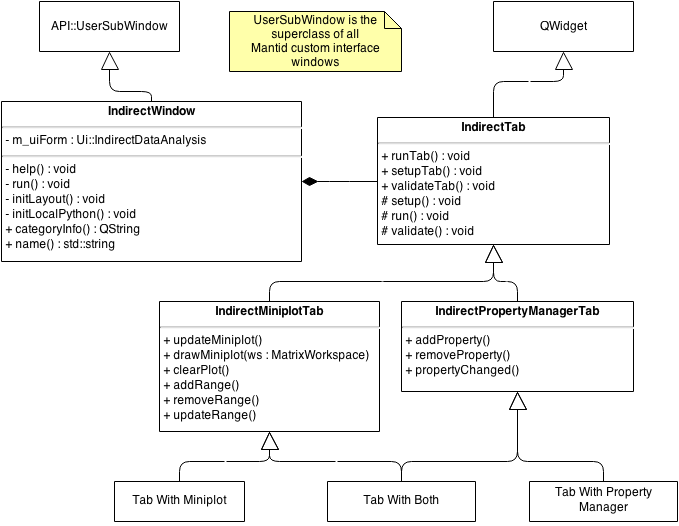
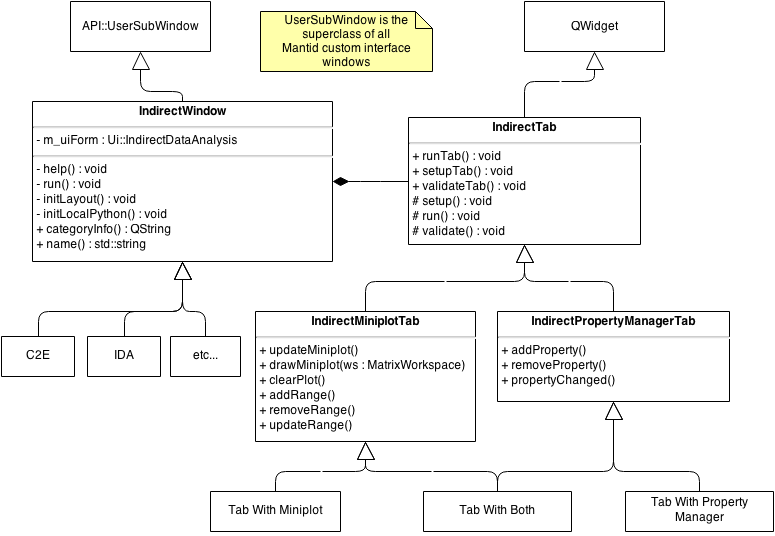
Checkpointing work.

diff --git a/RAL_technical_report/report.tex b/RAL_technical_report/report.tex
@@ -96,7 +96,6 @@ Indirect geometry time-of-flight instruments, like the IRIS, OSIRIS, TOSCA, and 
 \label{fig:instrument-energy-range}
 \end{figure}
 
-
 IRIS and OSIRIS share the N6 beamline in target station 1 at the ISIS facility. Both instruments are fed via curved guides from the source moderator. Two choppers positioned at 10m and 6.3m from the instruments define the incident wavelength band and prevent frame overlap \cite{smukhopadhyay2014}. TOSCA is located on the N4 beamline in ISIS target station 1 with a incident flight path of 17m and also has a chopper on the incoming beamline to prevent overlap and remove fast neutrons \cite{colognesi2002tosca}. VESUVIO is located on the S2 beamline and has an incident flight path of 11.005m \cite{mayers2011calibration}.
 
 The final energy for inelastic instruments such as IRIS, OSIRIS and TOSCA is determined by the reflections from analyser crystals by means of Bragg scattering. IRIS and OSIRIS both have pyrolytic graphite crystal analysers with reflection planes 002 and 004 delivering a final energy of $E_f$=1.845 and 7.38 meV respectively \cite{adams2001iris}\cite{telling2008osiris}. This design leads to a resolution of 17.5 and 54.5 $\mu$eV for the 002 and 004 reflections on IRIS and 25 and 99 $\mu$eV on OSIRIS. IRIS additionally has a mica (muscovite or fluorinated) crystal analyser bank with reflections 002, 004, and 006, and $E_f$ corresponding to 0.207, 0.826, and 1.86 meV respectively which provide better resolutions of 11$\mu$eV (006), 4.5$\mu$eV (004) and
@@ -347,10 +346,34 @@ The calibration section of the convert to energy interface can be used to create
 As mentioned, the calibration interfaces can also create resolution files for later use in data analysis. This routine, like many within the indirect section of many, is separate from the reducer-reduction step  framework and just a python function which is executed with parameters supplied from the interface. To create the resolution file, the routine first takes the vanadium run supplied on the calibration interface and converts it to energy using the energy transfer reducer described in section \ref{sec:energy-transfer}, but sets the detector mapping use all detectors and will sum multiple run if multiple runs are used. It then, like calibration, calculates a flat background from a range supplied by the user, rebins it according to the parameters specified for the instrument, and optionally saves the workspace to file.
 
 \subsection{Diagnostics}
-The diagnostics routine provides an integration on a run over a specified time-of-flight range. This routine loads the raw file and a calibration file (if requested) and integrates the resulting workspaces. If two ranges are requested, the second range is used to calculate a flat background and remove this from the data before integrating. Finally, the integrated workspace is then transposed to make it easier to visualise.
+The diagnostics routine (called Slice in IndirectEnergyConversion.py, named after the older routine from MODES \cite{wshowells2010}) provides an integration on a run over a specified time-of-flight range. This routine loads the raw file and a calibration file (if requested) and integrates the resulting workspaces. If two ranges are requested, the second range is used to calculate a flat background and remove this from the data before integrating. Finally, the integrated workspace is then transposed to make it easier to visualise.
+
+\begin{figure}[H]
+\centering
+\includegraphics[width=0.5\textwidth]{img/uml/activity_diagrams/Diagnostics_activity.png}
+\caption{Activity diagram showing an activity diagram for the Transmission routine.}
+\label{fig:c2e-diagnostics-activity-diagram}
+\end{figure}
+
+This takes a list of raw files with time-of-flight data in them as input along with an optional calibration file created from the routine described in the previous section. The slice routine begins by loading input files and the calibration file if supplied. If a calibration workspace is supplied, it is cropped to remove the monitors and match the range of the input raw file.
+
+For each sample workspace input is cropped to the desired number of spectra and divided by the calibration workspace if it exists. The workspace is then integrated across the supplied time range. If two ranges are given, the second range is used to remove a flat background prior to the integration using CalculateFlatBackground. Finally, the resulting workspace is transposed using the algorithm of the same name.
 
 \subsection{Transmission}
 The transmission routine is a simple program to calculate the measured transmission of a sample using the incident and transmission monitors. Using a run of both the sample and the can, monitors from each  raw file are extracted and converted to units of wavelength. The transmission monitor is then normalised by the incident monitor in each run over the common wavelength range. Finally, the sample is divided by the can to give the sample transmission as a function of wavelength.
+
+\begin{figure}[H]
+\centering
+\includegraphics[width=0.4\textwidth]{img/uml/activity_diagrams/Transmission_activity.png}
+\caption{Activity diagram showing an activity diagram for the Transmission routine.}
+\label{fig:c2e-transmission-activity-diagram}
+\end{figure}
+
+The procedure for doing this using the Mantid API is shown in the activity diagram \ref{fig:c2e-transmission-activity-diagram}. The routine assumes that the first two spectra in a raw file are the monitors (as is generally the case for ISIS indirect instruments) where the first is the incident monitor and the second is the transmission monitor. It also loads the third spectrum in the raw file (which should be actual detector data) to use as a reference time range. 
+
+If the first value on the detectors x axis matches the corresponding value on the incident monitor it simply converts the monitor workspace to units of wavelength. If it does not match the monitor must first be unwrapped using the UnwrapMonitor algorithm with the a hard coded parameter for the flight path of 38.76. Then it corrects the join wavelength for the UnwrapMonitor algorithm by removing the bins at the join with a linear interpolation method the uses the FFTSmooth algorithm to smooth the whole workspace. It then crops the incident monitor to the shortest wavelength of the two monitors and rebins the second monitor to match. The transmission monitor is then divided by the incident monitor.
+
+This procedure is repeated for both the sample and the can file provided by the user. After the monitors for both the sample and can have been converted the sample tranmission monitor is then divided by the can transmission monitor. Finally, a group workspace containing the sample transmission monitor, can transmission monitor, and sample transmission monitor with can removed is created.
 
 \subsection{$S(Q,w)$}
 In this interface, reduced files created as part of an energy transfer reduction can be converted to $S(Q,w)$. The Mantid framework has a collection of three algorithms that are used to convert a workspace from energy transfer to $S(Q,w)$ depending on the choice of rebinning to use. The mapping between $S(Q,w)$ algorithms and the rebin types are given in table \ref{table:sofqw-algorithms}. The code running an $S(Q,w)$ conversion is entirely contained within the Indirect interface where it dynamically builds a string of python code that is then executed. Optionally, the user many rebin the workspace in energy before hand. In this case, the routine simply calls the rebin algorithm with given parameters.
@@ -409,7 +432,7 @@ The instrument parameters used in reduction are defined in files called \seqspli
 \centering
 \includegraphics[width=0.9\textwidth]{img/uml/activity_diagrams/DiffractionReduction_activity.png}
 \caption{Activity diagram showing the flow of the Diffraction Reduction in release 3.2. Steps outside of swim lanes are individual algorithms that are not part of a reduction step.}
-\label{fig:c2e-class-diagram}
+\label{fig:diffraction-class-diagram}
 \end{figure}
 
 \begin{itemize}
@@ -439,7 +462,7 @@ This algorithm takes a list of samples and a list of vanadium runs and an old st
 \centering
 \includegraphics[width=0.4\textwidth]{img/uml/activity_diagrams/OSIRISDiffractionReduction_activity.png}
 \caption{Activity diagram showing the flow of the OSIRIS Diffraction Reduction in release 3.2.}
-\label{fig:c2e-class-diagram}
+\label{fig:OSIRISdiffraction-class-diagram}
 \end{figure}
 
 \begin{itemize}
@@ -460,6 +483,7 @@ This algorithm takes a list of samples and a list of vanadium runs and an old st
 The corresponding interface for diffraction reduction is called Indirect Diffraction. Unlike the other interfaces in the Indirect collection, the structure of this interface is just a single class with a single UI file defining the layout. Each instrument has either the option of running in Diff Spec or Diff Only mode (TOSCA and VESUVIO only have diff spec mode) and as described in the previous section OSIRIS has a different reduction routine in the case of diff only mode. This is reflected in the interface when the user selects the appropriate option. The GUI changes the way the interface looks by checking the instrument parameter files for the currently selected instrument and reflection.
 
 \section{Data Analysis with Mantid}
+
 After data has been reduced using the convert to energy or diffraction reduction routines described in the previous section the reduced data needs to be analysed. In the indirect section of Mantid, there are two major collections of data analysis scripts that are currently in place. The first  and most important are those included in the Indirect Data Analysis interface which provide a variety of different fit functions and transforms the can be performed on reduced data. The second collection of routines are accessible via the Indirect Bayes interface. This provides a collection of routines that can be used to infer fitting parameters using Bayesian model selection techniques which are complementary to the routines in Indirect Data Analysis.
 
 The majority of the code for data analysis scripts can be found in the file IndirectDataAnalysis.py with the Inelastic script folder of the Mantid installation, with the exception of Calculate Corrections which is in a file called IndirectAbsCor.py. For the Bayesian fitting programs, the code is stored in the file IndirectBayes.py, with the exception of JumpFit which is stored in IndirectJumpFit.py both of which are in the Inelastic scripts folder.
@@ -473,7 +497,7 @@ The elastic window algorithm converts the spectrum axis of the input workspace t
 \centering
 \includegraphics[width=0.6\textwidth]{img/uml/activity_diagrams/ElWin_activity.png}
 \caption{Activity diagram for the ElWin routine.}
-\label{fig:instrument-energy-range}
+\label{fig:elwin-acticity-diagram}
 \end{figure}
 
 The ElWin routine proceeds by first sorting the list of workspace names supplied as input. As there is an unofficial naming convention in the indirect inelastic section of Mantid where the names include the run number, this should produce a list with the smallest run number first.
@@ -496,7 +520,7 @@ The Fury program is used to perform a fast Fourier transform on a reduced worksp
 \centering
 \includegraphics[width=0.4\textwidth]{img/uml/activity_diagrams/Fury_activity.png}
 \caption{Activity diagram for the Fury routine.}
-\label{fig:instrument-energy-range}
+\label{fig:fury-activity-diagram}
 \end{figure}
 
 
@@ -514,7 +538,15 @@ Both of these routines convert the table of fitting parameters created from Fit 
 \subsection{ConvFit}
 The ConvFit routine is used to perform a convolution fit to the workspaces. Again, this routine follows a similar procedure to both the MSDFit and FuryFit routines. A fit function with the options the user has selected are gathered from the user interface and a string representing the function to be fitted is passed to the PlotPeakByLogValue algorithm to perform a sequential fit.
 
-The functions fitted are a $\delta$-function, one or two Lorentzians or a combination of both which are then convolved with the user supplied resolution workspace. The type of background can also be selected from a choice of Fixed Flat (flat background without the intercept tied to the user supplied value), Fit Flat (flat background with the intercept unconstrained), and Fit Linear (unconstrained linear background). Optionally a temperature correction can be applied to the Lorentzians.
+The functions fitted are a $\delta$-function, one or two Lorentzians or a combination of both which are then convolved with the user supplied resolution workspace. The type of background can also be selected from a choice of Fixed Flat (flat background without the intercept tied to the user supplied value), Fit Flat (flat background with the intercept unconstrained), and Fit Linear (unconstrained linear background). Optionally a temperature correction can be applied to the Lorentzians. The temperature correction is defined as:
+
+\begin{equation}
+f(x) = (\frac{x \cdot 11.606}{t}) / [1 - exp(-\frac{x \cdot 11.606}{t})]
+\end{equation}
+
+Where $t$ is the user supplied value for the temperature in kelvin, $x$ is the value in energy transfer at a given point in the workspace and 11.606 is the conversion factor from units of meV to K. Each Lorentzian is multiplied by this factor then convolved with the resolution.
+
+The final composite function is represented as a string that the Mantid fit algorithm can interpret. This function string is generated within the GUI code for ConvFit and then passed to the underlying python routine.
 
 As with the other FuryFit, ConvFit will convert the input workspace to elastic $Q$ first before performing the fit, and converts the output table of fit parameters to a matrix workspace. If a $\delta$-function was used the elastic incoherent structure factor (EISF) is calculated from the resulting table of parameters.
 
@@ -562,7 +594,7 @@ The Indirect Data Analysis user interface follows a similar design structure to 
 \centering
 \includegraphics[width=0.7\textwidth]{img/uml/class_diagrams/IDA_structure.png}
 \caption{Class diagram for the Indirect Data Analysis GUI.}
-\label{fig:instrument-energy-range}
+\label{fig:IDA-class-diagram}
 \end{figure}
 
 As with the convert to energy interface, the layout of the entire GUI is defined in a single XML file which each of the tab objects in the GUI system have a reference too. As of release 3.2 the Indirect Data Analysis interface consists of seven tabs; namely: ElWin, MSDFit, Fury, FuryFit, ConvFit, Calculate Corrections, and Apply Corrections. Each of these have a single class which inherits from a base class called IDATab where the common logic shared between tabs for setting up the tabs, drawing to the mini plot, and loading a nexus file, among other things, is stored.
@@ -579,7 +611,9 @@ In future releases of Mantid it is hoped that these routines will be converted i
 ResNorm is used to create a group normalisation workspace which can be input to Quasi (described in the next section). It normalises the input data using the instrument resolution by fitting. A group normalisation may also be done by grouping Q values where the resolution is stretched using a stretch factor. The routine produces two group workspaces with the suffixes \**\_ResNorm and \**\_ResNorm\_Fit respectively. The ResNorm group workspace contains two workspaces with the suffixes intensity and stretch. The intensity workspace contains the intensity normalisation factor and stretch contains a stretch factor for the width of the supplied resolution file. The ResNorm\_Fit group workspace contains the fits to each spectrum in the workspace.
 
 \subsection{Quasi}
-The Quasi routine provides a model selection algorithm using Bayesian methods to choose the number of lorentzian components present in the input data \cite{dssivia1992} and was originally known as Quasi Lines in the old MODES package. This routine takes a sample to fit to and a resolution file created in the convert to energy interface and optionally a resolution normalisation file created in ResNorm (see the previous section). This program can run either by fitting a $\delta$-function plus a sum of Lorentzians or a single stretched exponential. There are three Fortran modules which are used depending on the input. The QLres module fits a sum of Lorentzians. If the resolution file contains more than one spectrum, then the QLdata module is used and any ResNorm file supplied is ignored. Finally if the choice of fitting a stretched exponential is used the QLse module is used. Each of these modules share very similar code which is duplicated and modified slightly to suit the specifics of the implementation.
+The Quasi routine provides a model selection algorithm using Bayesian methods to choose the number of lorentzian components present in the input data \cite{dssivia1992} and was originally known as Quasi Lines in the old MODES package. This routine takes a sample to fit to and a resolution file created in the convert to energy interface and optionally a resolution normalisation file created in ResNorm (see the previous section). This program can run either by fitting a $\delta$-function plus a sum of Lorentzians or a single stretched exponential.
+
+There are three Fortran modules used depending on the input. The QLres module fits a sum of Lorentzians. If the resolution file contains more than one spectrum, then the QLdata module is used and any ResNorm file supplied is ignored. Finally if the choice of fitting a stretched exponential is used the QLse module is used. Each of these modules share very similar code which is duplicated and modified slightly to suit the specifics of the implementation.
 
 Inside the fitting routine it first refines the parameters for the $\delta$-function, linear background, energy range offset and thereby estimates probability of the absence of quasielastic components in data. It then refines the parameters for one, two and three Lorentzian components successively \cite{dssivia1992}.
 
@@ -600,9 +634,9 @@ JumpFit provides very simple routine for fitting the width parameters fitted to 
 \begin{tabular}{ l l l}
 Function & Function Definition & Default Parameter Values \\ \hline
 Chudley-Elliot &  $\Gamma(Q) = (1 - sin(Ql)/Ql)/\tau$ & $\tau = 1.0/QMax, L=1.5$\\ \hline
-Hall-Ross & $\Gamma(Q) = (1-exp(-l*Q^2))/\tau$ & $\tau = 1.0/QMax, L=1.5$ \\ \hline
-Fick & \parbox{6cm}{$\Gamma(Q) = D*Q^2$ \\ where $D=<l^2>*Q^2/6*\tau$} & $D = \Delta y / \Delta x^2$\\ \hline
-Teixeira Water & \parbox{6cm}{$\Gamma(Q) = D*Q^2/(1 + D*Q^2*\tau)$ \\ where $D=<l^2>*Q^2/6*\tau$} & $\tau = 1.0/QMax, L=1.5$ \\ \hline
+Hall-Ross & $\Gamma(Q) = (1-exp(-lQ^2))/\tau$ & $\tau = 1.0/QMax, L=1.5$ \\ \hline
+Fick & \parbox{6cm}{$\Gamma(Q) = DQ^2$ \\ where $D=<l^2>/6\tau$} & $D = \Delta y / \Delta x^2$\\ \hline
+Teixeira Water & \parbox{6cm}{$\Gamma(Q) = DQ^2/(1 + DQ^2\tau)$ \\ where $D=<l^2>/6\tau$} & $\tau = 1.0/QMax, L=1.5$ \\ \hline
 \end{tabular}
 \caption{JumpFit function names, definitions, and default parameter values.}
 \label{table:jumpfit-functions}
@@ -657,7 +691,7 @@ There are two types of algorithms in Mantid. Normal algorithms are simply ones w
 \item As of release 3.2 the ability to track the history of a work flow algorithm and it's child algorithms has been added, allowing scientists to see exactly what operations have been performed on a workspace since it entered Mantid.
 \end{itemize}
 
-Energy transfer reduction and diffraction reduction are both prime candidates for work flow algorithms. Neither of these routines actually perform any real direct manipulation of the workspaces they reduce themselves, but delegate all of the operations to existing Mantid algorithms within the reduction steps. Converting this would be a delicate and large job, but not necessarily difficult. The basic outline of both reductions is already documented in diagrams \ref{fig:c2e-energy-transfer-activity-diagram} and \ref{} respectively. This, along with the actual code (which is reasonably we documented and formatted) should be enough for an easy transition to a work flow algorithm for each type of reduction.
+Energy transfer reduction and diffraction reduction are both prime candidates for work flow algorithms. Neither of these routines actually perform any real direct manipulation of the workspaces they reduce themselves, but delegate all of the operations to existing Mantid algorithms within the reduction steps. Converting this would be a delicate and large job, but not necessarily difficult. The basic outline of both reductions is already documented in diagrams \ref{fig:c2e-energy-transfer-activity-diagram} and \ref{fig:diffraction-class-diagram} respectively. This, along with the actual code (which is reasonably we documented and formatted) should be enough for an easy transition to a work flow algorithm for each type of reduction.
 
 Some of the large reduction steps would also benefit from being converted to work flow algorithms in there own right, particularly the reduction steps which are larger and shared between both reducer classes. Prime examples would be the LoadData and HandleMonitor steps which both complex enough that they could be converted to work flow algorithms.
 
@@ -678,14 +712,14 @@ Additionally, more system tests need to be added to more extensively cover some 
 \label{subsec:GUI-Improvements}
 All of the interfaces for Indirect data reduction and analysis shared common themes in the design of the interface (except Diffraction, mostly due to its simplicity). All of them share the same basic layout following the format: one tab for each routines, input files at the top of the window, parameters in the middle and a mini plot if required, output options at the bottom followed by the run button.
 
-Having a consistent feel across all interfaces is extremely important in making it easy for users to learn to use the software \cite{cwickens2004} and there is plenty that could be done to improve this within the existing GUI. However, a more pertinent issue, and one that should be tackled first is the repetition of common code both between interfaces and between individual tabs. Notice that the class diagrams in he GUI overviews in sections \ref{subsec:c2e-gui-overview}, \ref{subsubsec:Bayes-GUI-Overview}, and \ref{subsubsec:IDA-GUI-Overview} are share a very similar structure.
+Having a consistent feel across all interfaces is extremely important in making it easy for users to learn to use the software and there is plenty that could be done to improve this within the existing GUI. However, a more pertinent issue, and one that should be tackled first is the repetition of common code both between interfaces and between individual tabs. Notice that the class diagrams in he GUI overviews in sections \ref{subsec:c2e-gui-overview}, \ref{subsubsec:Bayes-GUI-Overview}, and \ref{subsubsec:IDA-GUI-Overview} are share a very similar structure.
 
 Future development should aim to unify this repeatability structure into a using a single common class hierarchy with abstract base classes sharing functionality that is shared between all of the interfaces. This would include, for example:
 
 \begin{itemize}
 \item Mini plot set-up, drawing, updating and management routines.
 \item Common file loading and pre-processing calls.
-\item Algorithm instantiation, execution and error handling code.
+\item Algorithm instantiation, execution, and error handling code.
 \end{itemize}
 
 \begin{figure}[H]
@@ -695,7 +729,9 @@ Future development should aim to unify this repeatability structure into a using
 \label{fig:indirect-gui-proposed}
 \end{figure}
 
-A refactored GUI class hierarchy could look something like diagram \ref{fig:indirect-gui-proposed}. This shows that all of the interface windows share a common abstract base class, as do all of the tabs. More specific abstract base classes then implement the more specific functionality which is required by the interface until reaching the concrete base class which contains the exact details of setting up, validating and running a specific routine.
+A refactored GUI class hierarchy could look something like diagram \ref{fig:indirect-gui-proposed}. This shows that all of the interface classes share a common abstract base class. More specific abstract base classes then implement functionality which is dependant upon what is contained within the interface (e.g. a mini plot) until reaching the concrete base class which contains the exact details of setting up, validating and running a specific routine. This allows us to shared the common code that has already been written multiple times throughout the various interfaces. 
+
+The GUI window itself is a abstract base single class with a single interface file. All of the indirect GUIs follow the same pattern: tabs for each routine with a run, help, and manage directories buttons at the bottom of the window. The name and specific settings of the window can be then be implemented using a concrete derived class for each individual interface.
 
 Furthermore, to expand on the last bullet point above, the interface currently executes the python routines by creating a string of python code with the calls to each routine and all of the parameters it requires and then executes it. This approach is both fiddly and error prone. It is easy to build a string which is not formatted correctly in some subtle way which leads to broken options and code paths.
 
